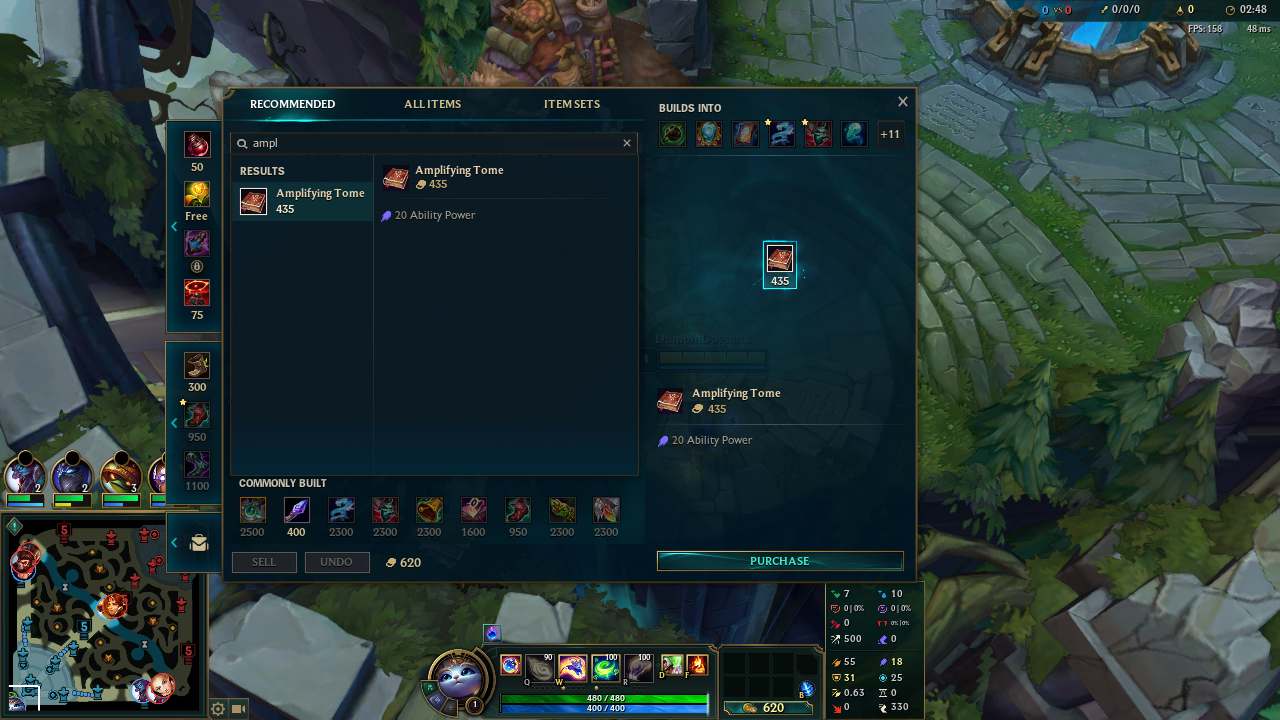
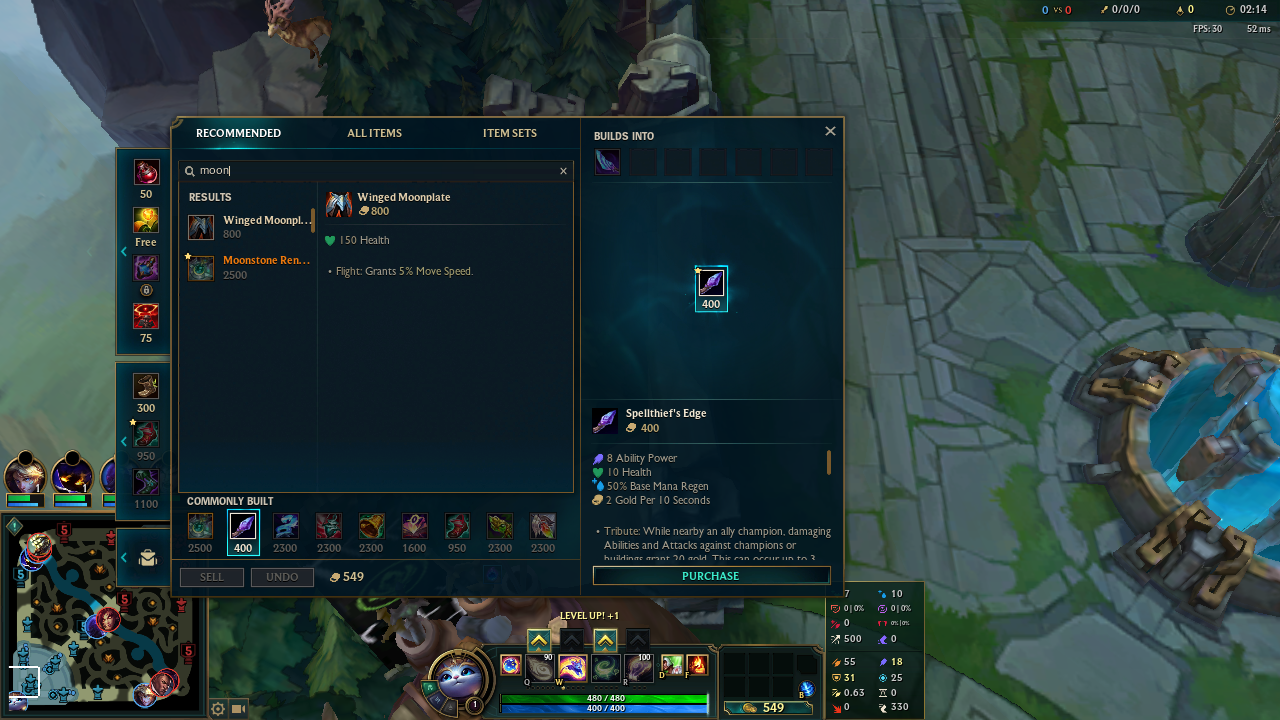
sdas

diff --git a/configs.py b/configs.py
@@ -12,21 +12,31 @@ class Configs:
 
         new_game_cfg = Configs.new_config_dir + "game.cfg"
         new_input_ini = Configs.new_config_dir + "input.ini"
-
+        new_p_settings = Configs.new_config_dir + "PersistedSettings.json"
+        
         l_game_cfg = Configs.l_config_dir + "game.cfg"
         l_input_ini = Configs.l_config_dir + "input.ini"
+        l_p_settings = Configs.l_config_dir + "PersistedSettings.json"
         
         if os.path.exists(l_game_cfg):
             shutil.copy2(l_game_cfg, Configs.saved_config_dir)
             os.remove(l_game_cfg)
+            shutil.copy2(new_game_cfg, Configs.l_config_dir)
         
         if os.path.exists(l_input_ini):
             shutil.copy2(l_input_ini, Configs.saved_config_dir)
             os.remove(l_input_ini)
+            shutil.copy2(new_input_ini, Configs.l_config_dir)
+        
+        if os.path.exists(l_p_settings):
+            shutil.copy2(l_p_settings, Configs.saved_config_dir)
+            os.remove(l_p_settings)
+            shutil.copy2(new_p_settings, Configs.l_config_dir)
     
     def restore_configs():
         saved_game_cfg = Configs.saved_config_dir + "game.cfg"
         saved_input_ini = Configs.saved_config_dir + "input.ini"
+        saved_p_settings = Configs.saved_config_dir + "PersistedSettings.json"
         
         if os.path.exists(saved_game_cfg):
             shutil.copy2(saved_game_cfg, Configs.l_config_dir)
@@ -35,5 +45,10 @@ class Configs:
         
         if os.path.exists(saved_input_ini):
             shutil.copy2(saved_input_ini, Configs.l_config_dir)
+        else:
+            raise Exception("no saved input_ini")
+        
+        if os.path.exists(saved_p_settings):
+            shutil.copy2(saved_p_settings, Configs.l_config_dir)
         else:
             raise Exception("no saved input_ini")

diff --git a/client.py b/client.py
@@ -9,6 +9,8 @@ import os
 from win32.win32gui import GetForegroundWindow, GetWindowRect, MoveWindow, IsWindowVisible ,GetWindowText, EnumWindows, FindWindow, SetForegroundWindow
 from win32.win32process import GetWindowThreadProcessId
 from element import Box, PointDetection
+from configs import Configs
+
 
 class Client():
     main_dir = os.path.dirname(__file__)
@@ -223,6 +225,7 @@ class Client():
         if not Client.is_league_game_running():
             Client.open_ready_client(32)
             time.sleep(1)
+            Configs.replace_configs()
             Client.start_match_search(role1, role2)
             Client.accept_match(max_time_mins, champ)
 

diff --git a/actions.py b/actions.py
@@ -70,13 +70,13 @@ class Actions:
         Mouse.move((GameCoords.shop_tab_recommend.x, GameCoords.shop_tab_recommend.y))
         time.sleep(1)
         Mouse.click()
-        time.sleep(0.25)
+        time.sleep(0.5)
         Mouse.move((GameCoords.shop_select_recommend.x, GameCoords.shop_select_recommend.y))
         time.sleep(1)
         Mouse.click()
-        time.sleep(0.50)
+        time.sleep(0.5)
         Mouse.move((GameCoords.shop_purchase_selected.x, GameCoords.shop_purchase_selected.y))
-        time.sleep(1.2)
+        time.sleep(1.5)
         Mouse.click()
         time.sleep(1)
         keyboard.press_and_release('p')

diff --git a/game/game_coords.py b/game/game_coords.py
@@ -15,9 +15,9 @@ class GameCoords:
     top_fountain = Coords(x=190, y=530)
     
     
-    shop_select_recommend = Coords(x=312, y=344)
-    shop_purchase_selected = Coords(x=780, y=560)
-    shop_tab_recommend = Coords(x=290, y=100)
+    shop_select_recommend = Coords(x=270, y=320)
+    shop_purchase_selected = Coords(x=708, y=576)
+    shop_tab_recommend = Coords(x=230, y=132)
     bl_fountain_minimap_camera_box = Coords(x=33, y=686, h=8, w=2, colors = [(255,255,255)], shape="vline")
     health_bars = {
         'top': Coords(),

diff --git a/main.py b/main.py
@@ -3,7 +3,7 @@ from game.play_game import PlayGame
 from input import Mouse
 import keyboard
 import time
-
+from configs import Configs
 
 
 stop_flag = {'val': False}
@@ -22,6 +22,8 @@ Client()
 
 while True:
     Client.get_into_game("sup", "mid", "yuumi", 30)
+    time.sleep(5)
+    Configs.restore_configs()
     PlayGame(stop_flag)
     time.sleep(5)
     Client.force_close_league()
